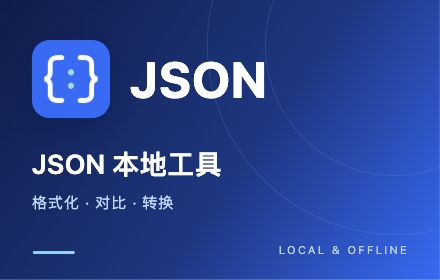
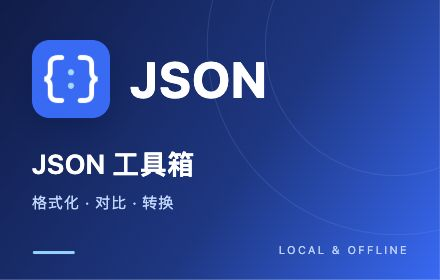
chore: rename extension to JSON 工具箱

Changed region(s): [[0.2364, 0.5429, 0.5023, 0.6286]]

diff --git a/store/privacy-policy.html b/store/privacy-policy.html
@@ -1,8 +1,8 @@
 <!doctype html>
-<html lang="zh-CN"><head><meta charset="utf-8"><meta name="viewport" content="width=device-width, initial-scale=1"><title>JSON 本地工具 — 隐私政策</title>
+<html lang="zh-CN"><head><meta charset="utf-8"><meta name="viewport" content="width=device-width, initial-scale=1"><title>JSON 工具箱 — 隐私政策</title>
 <style>body{margin:0;background:#f5f7fb;color:#243047;font:16px/1.85 -apple-system,BlinkMacSystemFont,"PingFang SC","Microsoft YaHei",sans-serif}main{max-width:780px;margin:48px auto;padding:40px;background:white;border:1px solid #e2e8f0;border-radius:20px}h1{font-size:30px;line-height:1.3;margin:0 0 10px}h2{font-size:21px;margin:32px 0 10px}p,ul{margin:12px 0}.date{color:#64748b;font-size:14px}a{color:#246bfd}.summary{padding:16px 20px;border-radius:12px;background:#edf4ff;border-left:4px solid #246bfd}@media(max-width:700px){main{margin:16px;padding:24px}h1{font-size:26px}}</style></head>
-<body><main><h1>JSON 本地工具 — 隐私政策</h1><p class="date">适用版本：1.0.0　最后更新：2026 年 10 月 7 日</p>
-<p class="summary">JSON 本地工具在您的浏览器中处理数据。开发者不接收、不收集、不出售您的 JSON 内容、本地文件、剪贴板内容或存档。</p>
+<body><main><h1>JSON 工具箱 — 隐私政策</h1><p class="date">适用版本：1.0.0　最后更新：2026 年 10 月 7 日</p>
+<p class="summary">JSON 工具箱在您的浏览器中处理数据。开发者不接收、不收集、不出售您的 JSON 内容、本地文件、剪贴板内容或存档。</p>
 <h2>1. 本地数据处理</h2><p>您主动输入、粘贴、拖放或通过文件选择器导入的文本和文件，仅在浏览器本地用于编辑、格式化、压缩、校验、排序、脱敏、格式转换和 Diff 对比。扩展不将这些内容上传至开发者服务器或第三方服务，也不需要账号或在线后端。</p>
 <h2>2. 本地保存与恢复</h2><ul><li>浏览器 localStorage 保存语言、工具设置、脱敏规则和引导偏好。</li><li>浏览器 IndexedDB 保存本地存档、Diff 草稿和标签页管理记录。使用存档或 Diff 时，相应内容可能被保存以便恢复。</li><li>sessionStorage 保存临时标签页标识。扩展通过浏览器内部的 BroadcastChannel 协调同一扩展的标签页，不向互联网发送该信息。</li></ul><p>这些数据保存在您当前浏览器的扩展存储空间中，不会由本扩展同步到开发者或第三方服务器。网站版本与扩展版本使用独立的存储空间。</p>
 <h2>3. 文件、剪贴板与下载</h2><p>文件读取由您主动选择或拖放触发。复制、粘贴、双击预览字符串等交互可能使用剪贴板；结果导出由您主动下载到本地。扩展不会后台监控剪贴板，也不会扫描您电脑上的其他文件。</p>

diff --git a/store/assets/promo-440x280.html b/store/assets/promo-440x280.html
@@ -1,3 +1,3 @@
-<!doctype html><html lang="zh-CN"><head><meta charset="utf-8"><title>JSON 本地工具 — 商店宣传图</title><style>
+<!doctype html><html lang="zh-CN"><head><meta charset="utf-8"><title>JSON 工具箱 — 商店宣传图</title><style>
 *{box-sizing:border-box}html,body{margin:0;width:440px;height:280px;overflow:hidden}body{font-family:-apple-system,BlinkMacSystemFont,"PingFang SC","Microsoft YaHei",sans-serif}.tile{position:relative;width:440px;height:280px;overflow:hidden;background:linear-gradient(125deg,#0d1c4a 0%,#153887 57%,#246bfd 100%);color:white;padding:32px}.ring{position:absolute;width:260px;height:260px;border:1px solid #7aa9ff55;border-radius:50%;right:-85px;top:-84px}.ring.b{width:380px;height:380px;right:-147px;top:-145px}.brand{position:relative;display:flex;align-items:center;gap:20px;margin:8px 0 28px}.brand img{width:78px;height:78px;border-radius:18px;box-shadow:0 10px 28px #00164866}.wordmark{font-size:50px;font-weight:700;line-height:1;letter-spacing:1px}.name{position:relative;font-size:27px;line-height:1.3;font-weight:600;letter-spacing:.5px;margin-bottom:11px}.sub{position:relative;color:#bbd7ff;font-size:15px;letter-spacing:1px}.line{position:absolute;height:3px;width:42px;background:#83d3ff;bottom:26px;left:33px;border-radius:3px}.tag{position:absolute;font-size:11px;letter-spacing:2.3px;color:#b8d2ff;bottom:24px;right:31px}
-</style></head><body><div class="tile"><div class="ring"></div><div class="ring b"></div><div class="brand"><img src="icon-128.png" alt="JSON 本地工具图标"><div class="wordmark">JSON</div></div><div class="name">JSON 本地工具</div><div class="sub">格式化 · 对比 · 转换</div><div class="line"></div><div class="tag">LOCAL &amp; OFFLINE</div></div></body></html>
+</style></head><body><div class="tile"><div class="ring"></div><div class="ring b"></div><div class="brand"><img src="icon-128.png" alt="JSON 工具箱图标"><div class="wordmark">JSON</div></div><div class="name">JSON 工具箱</div><div class="sub">格式化 · 对比 · 转换</div><div class="line"></div><div class="tag">LOCAL &amp; OFFLINE</div></div></body></html>

diff --git a/src/App.vue b/src/App.vue
@@ -20,7 +20,7 @@ const switchLocale = () => {
 };
 watch(locale, (value) => {
     document.documentElement.lang = value === 'en' ? 'en' : 'zh-CN';
-    document.title = value === 'en' ? 'Local JSON Tools' : 'JSON 本地工具';
+    document.title = value === 'en' ? 'JSON Toolbox' : 'JSON 工具箱';
     try {
         localStorage.setItem(LOCALE_KEY, value);
     } catch {

diff --git a/index.html b/index.html
@@ -5,7 +5,7 @@
     <meta name="viewport" content="width=device-width, initial-scale=1.0" />
     <meta name="color-scheme" content="light dark" />
     <link rel="icon" type="image/png" href="./icons/icon-32.png" />
-    <title>JSON 本地工具</title>
+    <title>JSON 工具箱</title>
   </head>
   <body>
     <div id="app"></div>

diff --git a/store/商店发布资料.md b/store/商店发布资料.md
@@ -1,6 +1,6 @@
-# JSON 本地工具：Chrome 商店发布资料
+# JSON 工具箱：Chrome 商店发布资料
 
-准备日期：2026-10-07。名称沿用当前 `public/manifest.json`，联系邮箱已由发布者确认可公开。以下内容对应本次 1.0.0 本地版。
+准备日期：2026-10-07。发布名称已确认为「JSON 工具箱」，与 `public/manifest.json` 一致，联系邮箱已由发布者确认可公开。以下内容对应本次 1.0.0 本地版。
 
 ## 现在的操作顺序
 
@@ -15,7 +15,7 @@
 
 | 字段 | 准备值 |
 | --- | --- |
-| 名称 | JSON 本地工具（上传包中的 Manifest 名称） |
+| 名称 | JSON 工具箱（上传包中的 Manifest 名称） |
 | 版本 | 1.0.0（首次上架；后续更新必须递增） |
 | 简短说明 | 在本地格式化、压缩、校验、转换、排序、脱敏和对比 JSON，支持文件导入导出与本地存档。 |
 | 分类 | 开发者工具 / Developer Tools（以后台实际选项为准） |
@@ -32,7 +32,7 @@
 ## 详细介绍：可直接复制
 
 ```text
-JSON 本地工具是一款在浏览器中运行的 JSON 编辑与处理扩展。点击浏览器工具栏图标，即可在独立标签页中打开双栏编辑器，编辑输入并预览处理结果。
+JSON 工具箱是一款在浏览器中运行的 JSON 编辑与处理扩展。点击浏览器工具栏图标，即可在独立标签页中打开双栏编辑器，编辑输入并预览处理结果。
 
 主要功能
 • JSON / JSON5 格式化、压缩、语法检查、转义与去转义。
@@ -47,7 +47,7 @@ JSON 本地工具是一款在浏览器中运行的 JSON 编辑与处理扩展。
 JSON 处理在您的浏览器内完成，处理脚本和编辑器均随扩展打包，不依赖在线后台。扩展不读取其他网页或浏览历史，不将您的输入、文件、草稿和存档上传给开发者或第三方。设置和存档保存在当前浏览器的扩展存储中。
 
 使用方法
-1. 安装后将“JSON 本地工具”固定到浏览器工具栏。
+1. 安装后将“JSON 工具箱”固定到浏览器工具栏。
 2. 点击扩展图标，在新标签页打开工具。
 3. 粘贴 JSON 或导入本地文件，选择格式化、压缩、对比或转换等操作。
 

diff --git a/README.md b/README.md
@@ -1,4 +1,4 @@
-# JSON 本地工具浏览器插件
+# JSON 工具箱浏览器插件
 
 独立的 Vue 3 + TypeScript + Vite 项目，使用 Chrome Manifest V3。点击浏览器工具栏中的插件图标，会打开完整的 JSON 编辑器标签页。
 
@@ -9,7 +9,7 @@
 1. 打开 Chrome 的 `chrome://extensions`，或 Edge 的 `edge://extensions`。
 2. 开启「开发者模式」。
 3. 点击「加载已解压的扩展程序」，选择本项目的 `dist` 目录。
-4. 将「JSON 本地工具」固定到工具栏，点击图标打开工具。
+4. 将「JSON 工具箱」固定到工具栏，点击图标打开工具。
 
 如果使用发布 ZIP，请先解压，再选择包含 `manifest.json` 的目录。`dist/index.html` 由浏览器插件加载，不需要启动博客服务。
 

diff --git a/打包与安装说明.md b/打包与安装说明.md
@@ -46,7 +46,7 @@ npm run build
 2. 开启「开发者模式」。
 3. 点击「加载已解压的扩展程序」。
 4. 选择本项目的 `dist` 目录。
-5. 将「JSON 本地工具」固定到工具栏，点击图标使用。
+5. 将「JSON 工具箱」固定到工具栏，点击图标使用。
 
 当前沿用原工具的双栏桌面布局，窗口宽度需至少 901px。构建产物中的 `index.html` 应通过浏览器插件打开。
 
